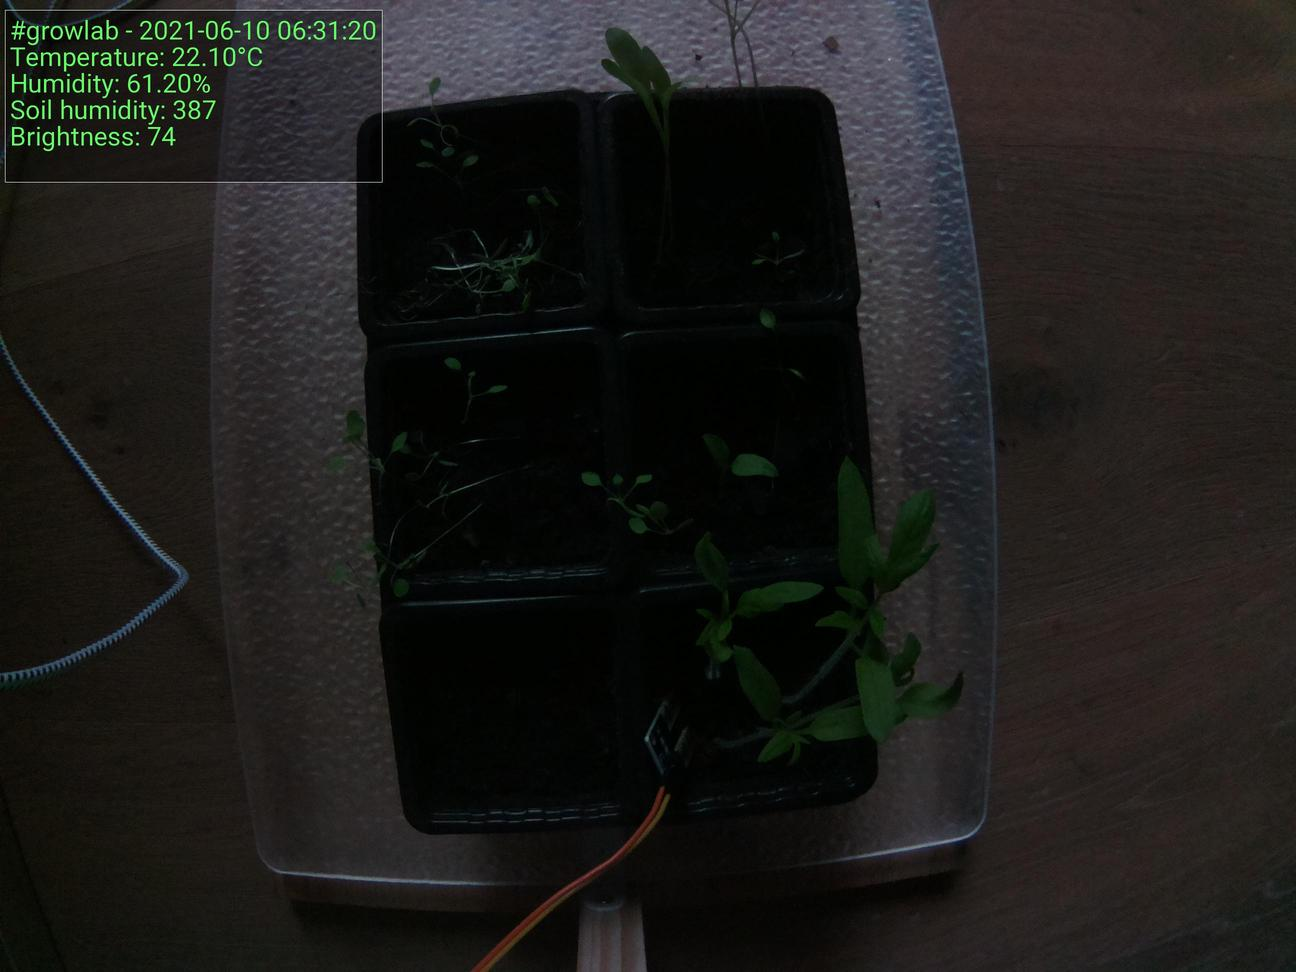
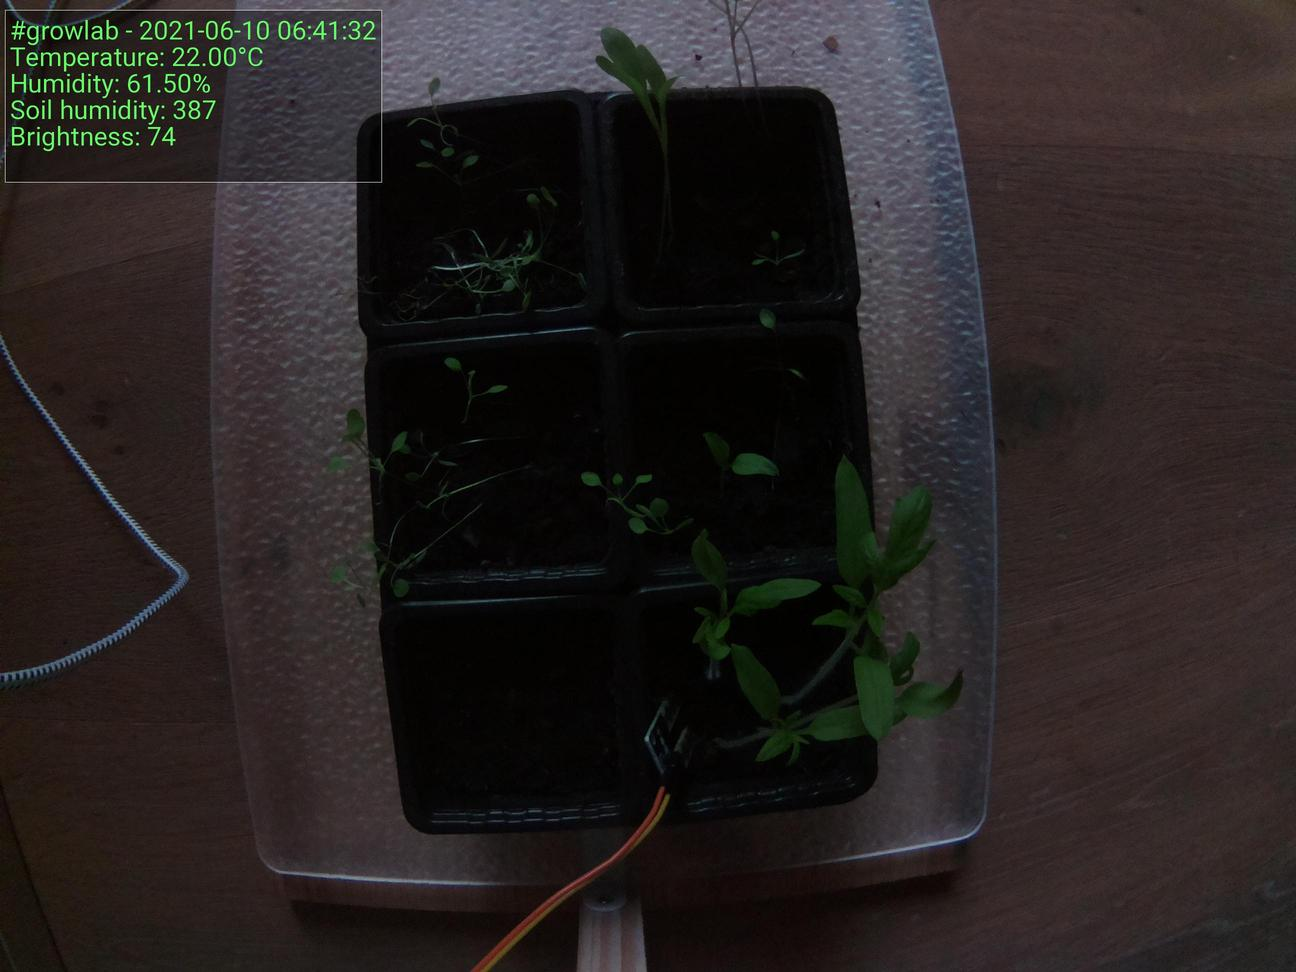
:bento: Update preview

diff --git a/index.html b/index.html
@@ -39,15 +39,15 @@
                     <tbody>
                         <tr>
                             <td>Time</td>
-                            <td>2021-06-10 06:31:20</td>
+                            <td>2021-06-10 06:41:32</td>
                         </tr>
                         <tr>
                             <td>Temperature</td>
-                            <td>22.10°C</td>
+                            <td>22.00°C</td>
                         </tr>
                         <tr>
                             <td>Humidity</td>
-                            <td>61.20%</td>
+                            <td>61.50%</td>
                         </tr>
                     </tbody>
                 </table>
@@ -55,7 +55,7 @@
 
                 <h5>Latest image</h5>
 		<div style="width: 85%;">
-	                <img class="figure-img img-fluid rounded" src="./preview.jpg?uid=1623299487.211583">
+	                <img class="figure-img img-fluid rounded" src="./preview.jpg?uid=1623300099.9040155">
 		</div>
             </div>
         </div>
